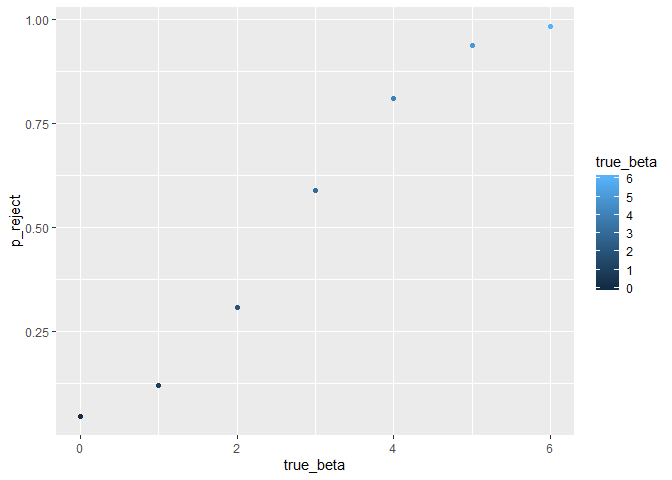
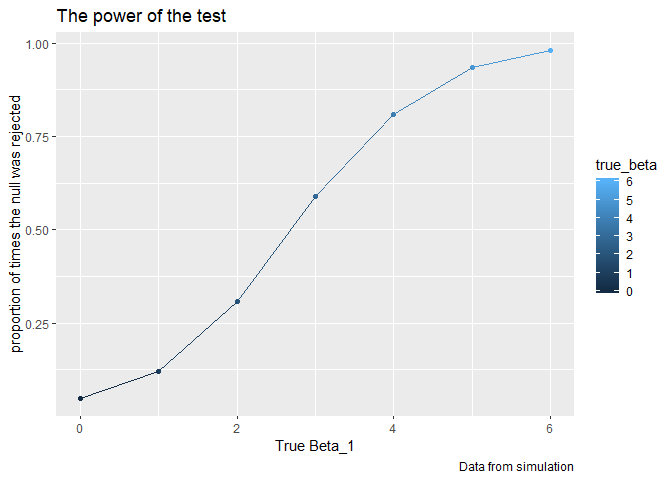
All plot for Problem 3

diff --git a/homework-5.md b/homework-5.md
@@ -684,12 +684,54 @@ plot_1 = summary_final%>%
          group_by(true_beta)%>%
          mutate(p_reject = sum(p.value < 0.05)/length(p.value))
   
-  
-  
-  
-  
 ggplot(plot_1,aes(x = true_beta, y = p_reject, col = true_beta)) +
-  geom_point() 
+  geom_point() +
+  geom_line()+
+   labs(
+    title = "The power of the test",
+    x = "True Beta_1",
+    y = "proportion of times the null was rejected",
+    caption = "Data from simulation")
 ```
 
 ![](homework-5_files/figure-gfm/unnamed-chunk-10-1.png)<!-- -->
+
+``` r
+plot_2 = summary_final%>%
+         group_by(true_beta)%>%
+         summarize(mean_beta = mean(estimate)) 
+   
+  
+  
+ggplot(plot_2,aes(x = true_beta, y = mean_beta, col = true_beta)) +
+  geom_point()+ 
+  geom_line()+
+  labs(
+    title = "",
+    x = "True Beta_1",
+    y = "Average estimate of Beta_1 ",
+    caption = "Data from simulation")
+```
+
+![](homework-5_files/figure-gfm/unnamed-chunk-11-1.png)<!-- -->
+
+``` r
+plot_3 = summary_final%>%
+         filter(p.value < 0.05) %>%
+         group_by(true_beta)%>%
+         summarize(mean_beta = mean(estimate)) 
+
+
+ggplot(plot_2,aes(x = true_beta, y = mean_beta, col = true_beta)) +
+  geom_point(alpha = 0.5)+ 
+  geom_line(col = "sky blue")+
+  geom_point(data = plot_3,alpha = 0.5)+
+  geom_line(data = plot_3,col="orange")+
+  labs(
+    title = "",
+    x = "True Beta_1",
+    y = "Average estimate of Beta_1 ",
+    caption = "Data from simulation")
+```
+
+![](homework-5_files/figure-gfm/unnamed-chunk-12-1.png)<!-- -->
